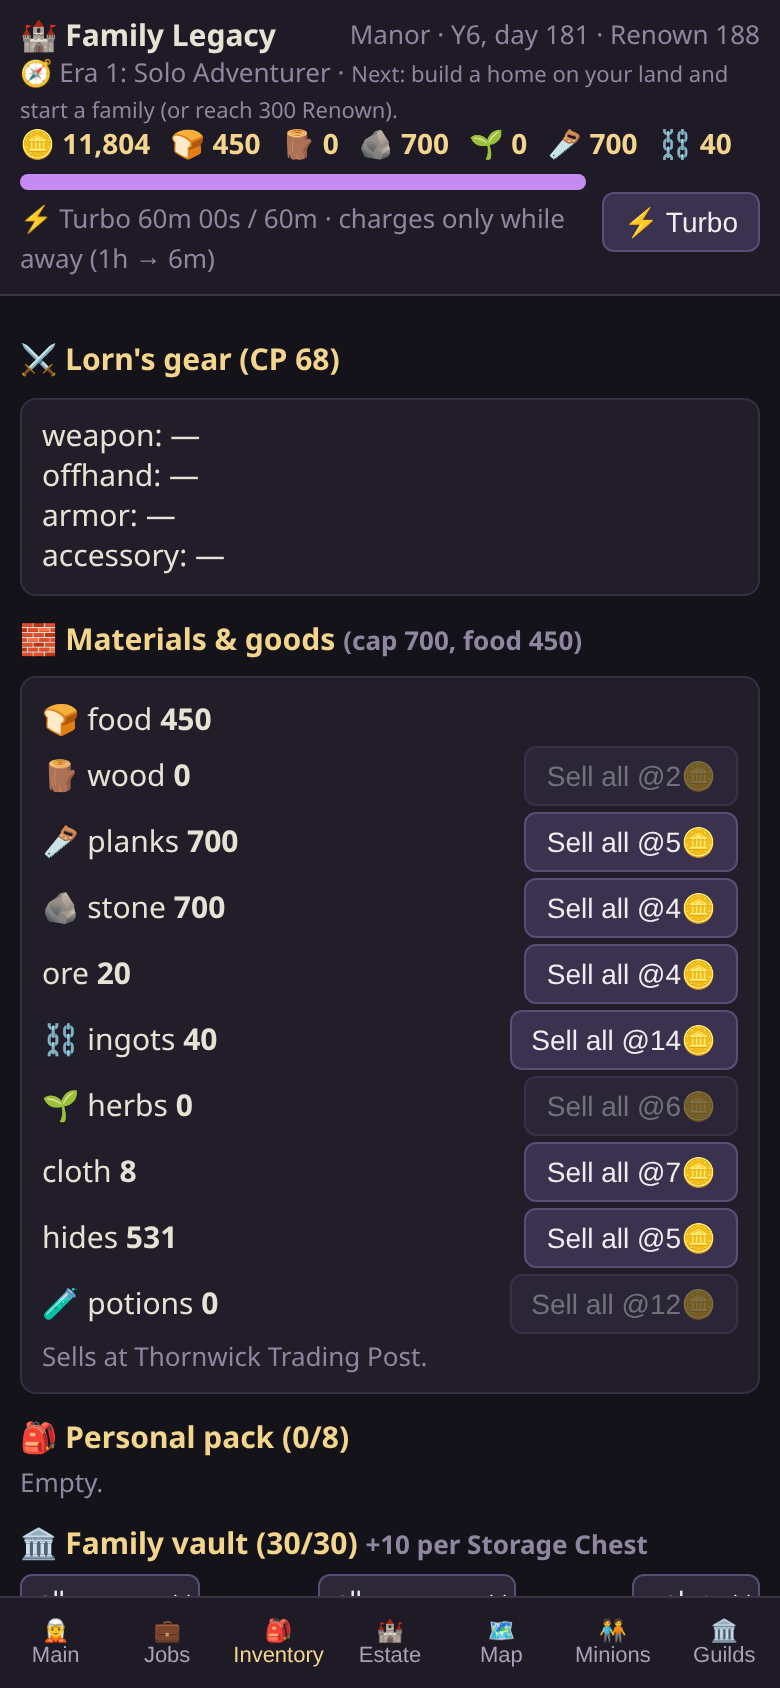
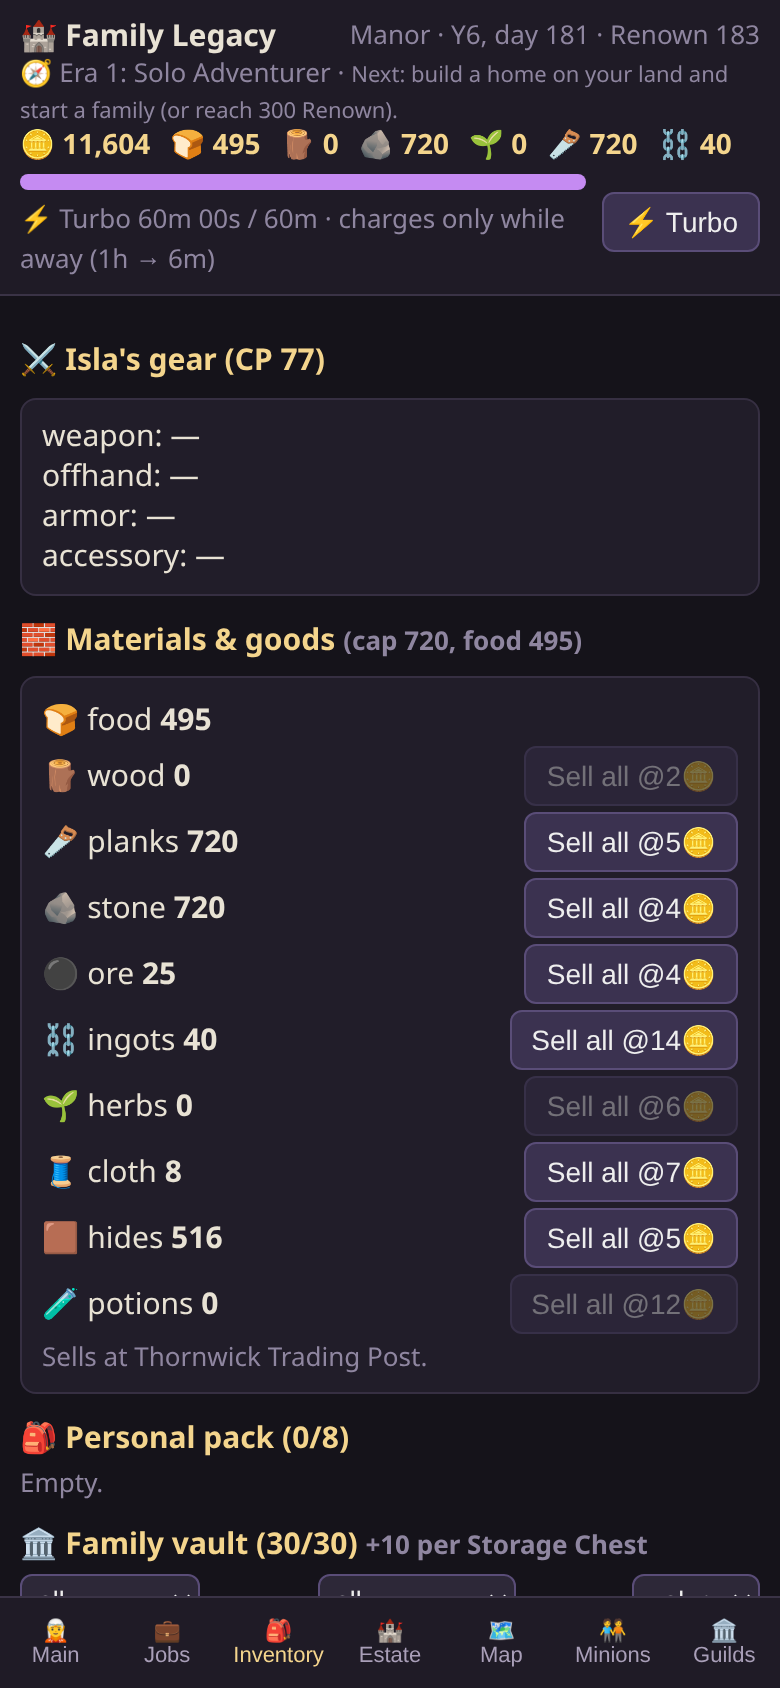
Update Family Legacy with ore, metals, and furniture tiers.
Replace the static game with the latest build, including ore and metals, building level bonuses, and furniture tiers, and keep the existing Pages workflow.

diff --git a/js/engine.js b/js/engine.js
@@ -86,15 +86,35 @@ export const idleEff=s=>T.idleEff+bl(s,'yard')*0.05;
 export const turboCapSec=s=>(T.turboCapMin+bl(s,'hourglass')*30)*60;
 export const offlineCapSec=s=>(T.offlineCapHours+bl(s,'hourglass')*2)*3600;
 const ES=()=>D.estate;
-export const pieceDef=id=>ES().pieces.find(p=>p.id===id)||D.furniture.find(p=>p.id===id);
+export const baseId=id=>String(id).split('@')[0];
+export const pieceTier=id=>+(String(id).split('@')[1]||0);
+export const pieceDef=id=>{ const b=baseId(id); return ES().pieces.find(p=>p.id===b)||D.furniture.find(p=>p.id===b); };
+export const tierName=id=>ES().pieceTiers[pieceTier(id)].name;
+export const structLevel=st=>structDef(st.type).level||1;
+export const pieceMult=(st,id)=>ES().pieceTiers[pieceTier(id)].mult*(1+ES().levelBonus*(structLevel(st)-1));
+const INTK=new Set(['beds']);
+function scaleBonus(b,m){ const o={}; for(const[k,v]of Object.entries(b)){
+  if(typeof v==='number') o[k]=INTK.has(k)?Math.floor(v*m+1e-9):v*m;
+  else if(k==='jobs'||k==='housing') o[k]=Object.fromEntries(Object.entries(v).map(([j,n])=>[j,Math.floor(n*m+1e-9)]));
+  else if(k==='process'||k==='processes') o.processes=[...(o.processes||[]),...[].concat(v).map(p=>({...p,rate:p.rate*m}))];
+  else o[k]=v; } return o; }
+export const scaledPiece=(st,id)=>{ const p=pieceDef(id); return p&&{...p,bonus:scaleBonus(p.bonus,pieceMult(st,id))}; };
+const STAGE_ORDER=()=>ES().stages.map(x=>x[1]);
+export function pieceLock(s,p){ const u=p.unlock; if(!u) return null;
+  if(u.stage&&STAGE_ORDER().indexOf(estateStage(s))<STAGE_ORDER().indexOf(u.stage)) return 'estate tier '+u.stage;
+  if(u.quest&&!s.doneQuests.includes(u.quest)) return 'quest: '+((D.quests.find(q=>q.id===u.quest)||{}).name||u.quest);
+  if(u.guild&&!living(s).some(m=>{const g=memberGuild(m,u.guild);return g&&(g.rank||0)>=(u.rank||0);})) return ((guildDef(u.guild)||{}).name||u.guild)+' rank '+((u.rank||0)+1);
+  return null; }
+export function pieceUpIssue(s,uid,pid){ const st=s.structures.find(x=>x.uid===uid); if(!st||!st.pieces.includes(pid)) return 'missing'; const t=pieceTier(pid); const nx=ES().pieceTiers[t+1]; if(!nx) return 'max'; if(!afford(s,nx.cost)) return 'cannot afford'; return null; }
+export function upgradePiece(s,uid,pid){ if(pieceUpIssue(s,uid,pid)) return false; const st=s.structures.find(x=>x.uid===uid); const t=pieceTier(pid)+1, nx=ES().pieceTiers[t]; pay(s,nx.cost); st.pieces[st.pieces.indexOf(pid)]=baseId(pid)+'@'+t; log(s,`🔧 ${pieceDef(pid).name} upgraded to ${nx.name}.`); return true; }
 export const structDef=id=>ES().structures.find(x=>x.id===id);
-const placed=s=>(s.structures||[]).flatMap(st=>st.pieces.map(pieceDef).filter(Boolean));
-export function activeSynergies(st){ return ES().synergies.filter(y=>y.pieces.every(p=>st.pieces.includes(p))); }
+const placed=s=>(s.structures||[]).flatMap(st=>st.pieces.map(id=>scaledPiece(st,id)).filter(Boolean));
+export function activeSynergies(st){ return ES().synergies.filter(y=>y.pieces.every(p=>st.pieces.map(baseId).includes(p))); }
 export const allSynergies=s=>(s.structures||[]).flatMap(st=>activeSynergies(st).map(y=>({...y,where:st.uid})));
 // every placed piece + every active synergy, as {bonus} objects (old furniture code reads f.bonus)
 const effects=s=>[...placed(s),...allSynergies(s)];
 export const eff=(s,k)=>effects(s).reduce((a,f)=>a+(typeof f.bonus[k]==='number'?f.bonus[k]:0),0);
-export const hasPiece=(s,id)=>(s.structures||[]).some(st=>st.pieces.includes(id));
+export const hasPiece=(s,id)=>(s.structures||[]).some(st=>st.pieces.map(baseId).includes(baseId(id)));
 export const bedrooms=s=>1+eff(s,'beds');
 export const hasLand=s=>(s.land||[]).length>0;
 export const established=s=>hasLand(s)&&(s.structures||[]).length>0;
@@ -111,15 +131,16 @@ export function buildStructure(s,type){ if(structIssue(s,type)) return null; con
 export function upgradeIssue(s,uid){ const st=s.structures.find(x=>x.uid===uid); if(!st) return 'missing'; const nx=ES().structures.find(x=>x.upgradeFrom===st.type); if(!nx) return 'max'; if(landUsed(s)-structDef(st.type).land+nx.land>landSlots(s)) return 'no free land slot'; if(!afford(s,nx.cost)) return 'cannot afford'; return null; }
 export function upgradeStructure(s,uid){ if(upgradeIssue(s,uid)) return false; const st=s.structures.find(x=>x.uid===uid); const nx=ES().structures.find(x=>x.upgradeFrom===st.type); pay(s,nx.cost); log(s,`🏗 ${structDef(st.type).name} upgraded to ${nx.name}.`); st.type=nx.id; return true; }
 export const freeSlots=(s,st)=>structDef(st.type).slots-st.pieces.length;
-export function placeIssue(s,uid,pid,fromStore){ const st=s.structures.find(x=>x.uid===uid), p=pieceDef(pid); if(!st||!p) return 'missing'; if(freeSlots(s,st)<=0) return 'building full'; if(st.pieces.includes(pid)) return 'already here'; if(!fromStore&&!afford(s,p.cost)) return 'cannot afford'; if(fromStore&&!s.pieceStore.includes(pid)) return 'not in storage'; return null; }
+export function placeIssue(s,uid,pid,fromStore){ const st=s.structures.find(x=>x.uid===uid), p=pieceDef(pid); if(!st||!p) return 'missing'; if(freeSlots(s,st)<=0) return 'building full'; if(st.pieces.map(baseId).includes(baseId(pid))) return 'already here'; if(!fromStore&&pieceLock(s,p)) return '🔒 '+pieceLock(s,p); if(!fromStore&&!afford(s,p.cost)) return 'cannot afford'; if(fromStore&&!s.pieceStore.includes(pid)) return 'not in storage'; return null; }
 export function placePiece(s,uid,pid,fromStore=false){ if(placeIssue(s,uid,pid,fromStore)) return false; const st=s.structures.find(x=>x.uid===uid), p=pieceDef(pid);
   if(fromStore) s.pieceStore.splice(s.pieceStore.indexOf(pid),1); else pay(s,p.cost); st.pieces.push(pid);
   const before=new Set(); log(s,`🪑 Placed ${p.name} in the ${structDef(st.type).name}.`); for(const y of activeSynergies(st)) if(y.pieces.includes(pid)) log(s,`✨ Synergy: ${y.name} (${y.desc}).`); return true; }
 export function removePiece(s,uid,pid){ const st=s.structures.find(x=>x.uid===uid); if(!st||!st.pieces.includes(pid)) return false; st.pieces.splice(st.pieces.indexOf(pid),1); s.pieceStore.push(pid); return true; }
-function processDay(s,mul=1){ for(const st of s.structures||[]){ const syn=activeSynergies(st); for(const p of st.pieces.map(pieceDef)){ const pr=p&&p.bonus.process; if(!pr) continue;
+function processDay(s,mul=1){ for(const st of s.structures||[]){ const syn=activeSynergies(st); for(const p of st.pieces.map(id=>scaledPiece(st,id))) for(const pr of (p&&p.bonus.processes)||[]){
   let n=pr.rate*mul*syn.reduce((a,y)=>a*((y.bonus.processMult||{})[pr.out]||1),1); for(const[k,v]of Object.entries(pr.in)) n=Math.min(n,(s.res[k]||0)/v); if(n<=0) continue;
   for(const[k,v]of Object.entries(pr.in)) s.res[k]-=v*n; s.res[pr.out]=(s.res[pr.out]||0)+n; } } }
-export const processRate=(s,st,pid)=>{ const pr=pieceDef(pid).bonus.process; return pr?pr.rate*activeSynergies(st).reduce((a,y)=>a*((y.bonus.processMult||{})[pr.out]||1),1):0; };
+export const processRates=(s,st,pid)=>((scaledPiece(st,pid).bonus.processes)||[]).map(pr=>({out:pr.out,rate:Math.round(pr.rate*activeSynergies(st).reduce((a,y)=>a*((y.bonus.processMult||{})[pr.out]||1),1)*100)/100}));
+export const processRate=(s,st,pid)=>{ const r=processRates(s,st,pid); return r.length?r[0].rate:0; };
 export function jobCap(s,job){ if(job==='idle'||job==='guard') return Infinity; let c=placed(s).reduce((a,p)=>a+((p.bonus.jobs||{})[job]||0),0);
   if(job==='farm') c+=bl(s,'farm')*2+bl(s,'garden'); if(job==='gather') c+=bl(s,'lumber')*2; if(job==='tutor') c+=bl(s,'library'); return c; }
 export function estateStage(s){ if(!hasLand(s)) return 'Landless'; const t=Object.values(s.buildings).reduce((a,b)=>a+b,0)+s.structures.reduce((a,st)=>a+structDef(st.type).slots/2+st.pieces.length,0); const STAGES=ES().stages; let n=STAGES[0][1];for(const[k,v]of STAGES)if(t>=k)n=v;return n;}
@@ -292,7 +313,7 @@ export function rumor(s,regionId){ if(s.res.coin<T.rumorCost) return null; const
 // ---- minions (followers, hired help, retainers)
 export const minionCap=s=>D.minions.baseCap+(s.structures||[]).length*D.minions.capPerHouse+(hasService(s,'storage')?2:0);
 export function housingCap(s,kind){ if(kind==='none') return Infinity; if(kind==='garden') return bl(s,'garden')>0?Infinity:0;
-  return (s.structures||[]).reduce((a,st)=>a+(((structDef(st.type).builtin||{}).housing||{})[kind]||0)+st.pieces.map(pieceDef).reduce((b,p)=>b+(((p&&p.bonus.housing)||{})[kind]||0),0),0); }
+  return (s.structures||[]).reduce((a,st)=>a+(((structDef(st.type).builtin||{}).housing||{})[kind]||0)+st.pieces.map(id=>scaledPiece(st,id)).reduce((b,p)=>b+(((p&&p.bonus.housing)||{})[kind]||0),0),0); }
 export const housingKind=mi=>(D.minions.types.find(t=>t.id===(mi.type||mi.id))||{}).housing||'bunk';
 export function isHoused(s,mi){ const k=housingKind(mi); const same=s.minions.filter(x=>housingKind(x)===k); return same.indexOf(mi)<housingCap(s,k); }
 export const housingUsed=(s,kind)=>Math.min(s.minions.filter(x=>housingKind(x)===kind).length,housingCap(s,kind));
@@ -320,6 +341,7 @@ function minionDay(s){
     const a=(mtype(mi.type).apt[mi.job]||1)*(fed?1:D.minions.hungryOutput)*minionGearMult(mi,mi.job);
     if(mi.job==='farm') s.res.food+=3*a*(1+bl(s,'farm')*.2);
     else if(mi.job==='gather'){ s.res.wood+=2*a; s.res.stone+=1*a; }
+    else if(mi.job==='mine'){ s.res.ore=(s.res.ore||0)+1*a; s.res.copperore=(s.res.copperore||0)+0.8*a; s.res.stone+=0.5*a; }
     else if(mi.job==='herbs') s.res.herbs=(s.res.herbs||0)+1.5*a;
     else if(mi.job==='craft'){ mi.prog=(mi.prog||0)+0.2*a; const rc=bestRecipe(s,null); if(rc&&mi.prog>=rc.days){ mi.prog=0; craftItem(s,null,rc,mi,a); } }
     else if(mi.job==='merchant'){ sellTick(s,a*(1+(mi.equip?0:0))); } }
@@ -417,7 +439,7 @@ export const qualities=()=>CR().qualities;
 export function itemDef(id){ if(typeof id!=='string') return null; if(id.startsWith('c|')){ const [,b,q]=id.split('|'); const base=D.items.find(i=>i.id===b), Q=CR().qualities.find(x=>x.id===q); if(!base||!Q) return null;
   return {...base,id,name:`${Q.name} ${base.name}`,rarity:Q.name,quality:q,crafted:true,cp:Math.round((base.cp||0)*Q.mult),value:Math.round(base.value*Q.mult*CR().craftedValueMult),affinity:base.affinity?Math.round(base.affinity*Q.mult):undefined}; }
   return D.items.find(i=>i.id===id)||null; }
-export const vaultCap=s=>CR().vaultBase+eff(s,'matCap')/400*CR().vaultPerStorage;
+export const vaultCap=s=>CR().vaultBase+Math.floor(eff(s,'matCap')/400*CR().vaultPerStorage+1e-9);
 export const vaultRoom=s=>s.vault.length<vaultCap(s);
 export const packCap=()=>CR().packCap;
 export function addToVault(s,id){ if(!vaultRoom(s)) return false; s.vault.push(id); return true; }

diff --git a/js/main.js b/js/main.js
@@ -80,19 +80,20 @@ function family(){ const m=E.active(s); let h=`<h3>Members (${E.living(s).length
   <button class="b" data-a="propose" data-v="${su.id}" ${su.affinity>=100&&!m.spouse&&s.res.coin>=200&&E.ageY(m)>=18?'':'disabled'}>💍 Propose (200🪙)</button></div></div>`; }
  const dead=s.members.filter(x=>!x.alive); if(dead.length) h+=`<h3>🕯 Ancestors</h3>`+dead.map(x=>`<div class="muted">${x.name} (${E.ageY(x)}y)</div>`).join('');
  return h; }
-const RI={coin:'🪙',wood:'🪵',stone:'🪨',food:'🍞',herbs:'🌱',planks:'🪚',ingots:'⛓',potions:'🧪'};
+const RI={coin:'🪙',wood:'🪵',stone:'🪨',food:'🍞',herbs:'🌱',planks:'🪚',ingots:'⛓',potions:'🧪',ore:'⚫',copperore:'🟤',copper:'🟠',hides:'🟫',cloth:'🧵'};
 const costStr=c=>Object.entries(c).map(([k,v])=>`${fmt(v)} ${(RI[k]||k)}`).join(' ');
 function landShop(where){ return D.estate.lands.filter(l=>!s.land.includes(l.id)&&(!where||l.towns.includes(where))).map(l=>`<div class="card row" style="padding:6px 8px;margin:4px 0"><span>${l.icon} ${l.name} <span class="muted">+${l.slots} land slots${l.requires&&!s.land.includes(l.requires)?' · needs '+D.estate.lands.find(x=>x.id===l.requires).name:''}${l.desc?' · '+l.desc:''}</span></span><button class="b" data-a="land" data-v="${l.id}" ${E.canBuyLand(s,l.id)?'':'disabled'}>${costStr(l.cost)}</button></div>`).join(''); }
 function pieceRow(p,btn){ return `<div class="row" style="margin:3px 0"><span>${p.icon} ${p.name} <span class="muted">${p.desc||Object.entries(p.bonus).map(([k,v])=>k+': '+v).join(', ')}</span></span>${btn}</div>`; }
 function estate(){ let h=`<div class="card"><div class="row"><b>🗺 Land</b><span>${E.landUsed(s)}/${E.landSlots(s)} land slots used</span></div><div class="muted">${s.land.map(id=>D.estate.lands.find(l=>l.id===id).name).join(', ')}</div></div>${landShop()}`;
- h+=`<div class="card"><b>📦 Capacity</b><div class="muted">🍞 ${fmt(s.res.food)}/${fmt(E.foodCap(s))} food · materials cap ${fmt(E.matCap(s))} each · 🪵→🪵 planks ${fmt(s.res.planks||0)} · ⛓ ingots ${fmt(s.res.ingots||0)} · 🧪 potions ${fmt(s.res.potions||0)}</div>
+ h+=`<div class="card"><b>📦 Capacity</b><div class="muted">🍞 ${fmt(s.res.food)}/${fmt(E.foodCap(s))} food · materials cap ${fmt(E.matCap(s))} each · 🪵→🪵 planks ${fmt(s.res.planks||0)} · ⚫ iron ore ${fmt(s.res.ore||0)} · ⛓ iron ingots ${fmt(s.res.ingots||0)} · 🟤 copper ore ${fmt(s.res.copperore||0)} · 🟠 copper ${fmt(s.res.copper||0)} · 🧪 potions ${fmt(s.res.potions||0)}</div>
  <div class="muted">Family eats ${E.living(s).length}🍞/day · followers eat ${E.minionFood(s)}🍞/day · beds ${E.living(s).length}/${E.bedrooms(s)} · follower bunks ${E.housingUsed(s,'bunk')}/${E.housingCap(s,'bunk')}</div></div>`;
  const syn=E.allSynergies(s); h+=`<h3>✨ Active synergies (${syn.length})</h3>`+(syn.length?syn.map(y=>`<div>${y.icon} <b>${y.name}</b> <span class="muted">${y.desc} · in ${E.structDef(s.structures.find(x=>x.uid===y.where).type).name}</span></div>`).join(''):'<div class="muted">Place related pieces in the same building: '+D.estate.synergies.map(y=>y.pieces.map(p=>E.pieceDef(p).name).join(' + ')).join(' · ')+'</div>');
  h+=`<h3>🛖 Buildings & stations</h3>`;
  s.structures.forEach((st,k)=>{ const d=E.structDef(st.type), nx=D.estate.structures.find(x=>x.upgradeFrom===st.type), ui=E.upgradeIssue(s,st.uid); const syn=E.activeSynergies(st);
-  h+=`<div class="card"><div class="row"><b>${d.icon} ${d.name} #${k+1}</b><span class="muted">${st.pieces.length}/${d.slots} slots · ${d.land} land</span></div>${d.builtin?`<div class="muted">Built-in: houses ${d.builtin.housing.bunk} followers</div>`:''}${syn.length?`<div>${syn.map(y=>`<span class="tb" style="border-color:#d9b44a">${y.icon} ${y.name}</span>`).join('')}</div>`:''}
-  ${st.pieces.map(pid=>{const p=E.pieceDef(pid);const rate=E.processRate(s,st,pid);return pieceRow(p,`<button class="b" data-a="unpiece" data-v="${st.uid}" data-w="${pid}">${rate?rate+'/day · ':''}Remove</button>`)}).join('')}
-  ${E.freeSlots(s,st)>0?`<div class="row" style="margin-top:4px"><select data-a="pickpiece" data-v="${st.uid}"><option value="">+ Place a piece…</option>${s.pieceStore.filter((x,i,a)=>a.indexOf(x)===i).map(pid=>`<option value="store:${pid}">📦 ${E.pieceDef(pid).name} (from storage)</option>`).join('')}${[...D.estate.pieces,...D.furniture].map(p=>`<option value="${p.id}" ${E.placeIssue(s,st.uid,p.id)?'disabled':''}>${p.icon} ${p.name} – ${costStr(p.cost)}${E.placeIssue(s,st.uid,p.id)==='already here'?' (here)':''}</option>`).join('')}</select></div>`:''}
+  h+=`<div class="card"><div class="row"><b>${d.icon} ${d.name} #${k+1}</b><span class="muted">Lv ${d.level||1} (+${((d.level||1)-1)*5}% to furniture) · ${st.pieces.length}/${d.slots} slots · ${d.land} land</span></div>${d.builtin?`<div class="muted">Built-in: houses ${d.builtin.housing.bunk} followers</div>`:''}${syn.length?`<div>${syn.map(y=>`<span class="tb" style="border-color:#d9b44a">${y.icon} ${y.name}</span>`).join('')}</div>`:''}
+  ${st.pieces.map(pid=>{const p=E.pieceDef(pid);const rates=E.processRates(s,st,pid);const t=E.pieceTier(pid),nt=D.estate.pieceTiers[t+1],ui=E.pieceUpIssue(s,st.uid,pid);
+   return `<div class="row" style="margin:3px 0"><span>${p.icon} ${p.name} <span class="tb">${E.tierName(pid)}</span> <span class="muted">${p.desc} · ×${E.pieceMult(st,pid).toFixed(2)} effect${rates.length?' · '+rates.map(r=>r.rate+' '+r.out+'/day').join(', '):''}</span></span><span>${nt?`<button class="b" data-a="uppiece" data-v="${st.uid}" data-w="${pid}" ${ui?'disabled':''}>→ ${nt.name} ${costStr(nt.cost)}</button>`:''}<button class="b" data-a="unpiece" data-v="${st.uid}" data-w="${pid}">Remove</button></span></div>`}).join('')}
+  ${E.freeSlots(s,st)>0?`<div class="row" style="margin-top:4px"><select data-a="pickpiece" data-v="${st.uid}"><option value="">+ Place a piece…</option>${s.pieceStore.filter((x,i,a)=>a.indexOf(x)===i).map(pid=>`<option value="store:${pid}">📦 ${E.pieceDef(pid).name} [${E.tierName(pid)}] (from storage)</option>`).join('')}${[...D.estate.pieces,...D.furniture].map(p=>`<option value="${p.id}" ${E.placeIssue(s,st.uid,p.id)?'disabled':''}>${p.icon} ${p.name} – ${costStr(p.cost)}${E.placeIssue(s,st.uid,p.id)==='already here'?' (here)':E.pieceLock(s,p)?' 🔒 '+E.pieceLock(s,p):''}</option>`).join('')}</select></div>`:''}
   ${nx?`<div class="row" style="margin-top:4px"><span class="muted">Upgrade → ${nx.name} (${nx.slots} slots, ${nx.land} land)</span><button class="b" data-a="upstruct" data-v="${st.uid}" ${ui?'disabled':''}>${ui&&ui!=='cannot afford'?'🔒 '+ui:costStr(nx.cost)}</button></div>`:''}</div>`; });
  h+=`<div class="muted">Build new:</div>`+D.estate.structures.filter(d=>!d.upgradeFrom).map(d=>{const iss=E.structIssue(s,d.id);return `<div class="card row" style="padding:6px 8px;margin:4px 0"><span>${d.icon} ${d.name} <span class="muted">${d.land} land · ${d.desc}</span></span><button class="b" data-a="struct" data-v="${d.id}" ${iss?'disabled':''}>${iss&&iss!=='cannot afford'?'🔒 '+iss:costStr(d.cost)}</button></div>`}).join('');
  if(s.pieceStore.length) h+=`<div class="muted">📦 In storage: ${s.pieceStore.map(p=>E.pieceDef(p).name).join(', ')}</div>`;
@@ -212,7 +213,7 @@ document.addEventListener('click',e=>{ const t=e.target.closest('[data-tab]'); i
  const b=e.target.closest('button[data-a],a[data-a]'); if(!b) return; const a=b.dataset.a, v=b.dataset.v, m=E.active(s);
  ({turbo:()=>E.toggleTurbo(s),train:()=>E.setAction(s,{type:'train',target:v}),sheet:()=>{sheetOpen=!sheetOpen},job:()=>E.setAction(s,{type:'job',target:v}),activity:()=>E.setAction(s,{type:'activity',target:v}),rest:()=>E.setAction(s,{type:'rest'}),
   quest:()=>{E.setAction(s,{type:'quest',target:v});},court:()=>E.setAction(s,{type:'court',target:v}),gift:()=>E.giveGift(s,v,b.dataset.w),propose:()=>E.propose(s,v),
-  evolve:()=>E.evolve(s,m,v),build:()=>E.build(s,v),struct:()=>E.buildStructure(s,v),upstruct:()=>E.upgradeStructure(s,v),unpiece:()=>E.removePiece(s,v,b.dataset.w),equip:()=>E.equip(s,m,v),equipbag:()=>E.equip(s,m,v,'bag'),unequip:()=>E.unequip(s,m,v),tobag:()=>E.moveItem(s,m,v,true),tovault:()=>E.moveItem(s,m,v,false),buy:()=>E.buyItem(s,v,b.dataset.w),sellres:()=>E.sellRes(s,v,b.dataset.w,10),rumor:()=>E.rumor(s,v),sellallres:()=>E.sellAllRes(s,v,b.dataset.w),bulksell:()=>E.sellMany(s,curList()),bulklist:()=>curList().forEach(id=>E.listForSale(s,id)),list:()=>E.listForSale(s,v),unlist:()=>E.unlist(s,v),craft:()=>E.setAction(s,{type:'craft',target:v}),mequip:()=>E.equipMinion(s,v,b.dataset.w),munequip:()=>E.unequipMinion(s,v,b.dataset.w),land:()=>E.buyLand(s,v),room:()=>E.addRoom(s,v),unroom:()=>E.removeRoom(s,+v),advjoin:()=>E.joinAdventurers(s,m),advrank:()=>E.advRankUp(s,m),advbuy:()=>E.buyAdvItem(s,m,v),join:()=>E.joinGuild(s,m,v),rankup:()=>E.rankUp(s,m,v||undefined),gbuy:()=>E.buyGuildItem(s,m,v),hire:()=>E.hire(s,v,b.dataset.w),dismiss:()=>E.dismiss(s,v),gather:()=>E.setAction(s,{type:'gather',target:v}),sell:()=>E.sell(s,v),switch:()=>E.switchTo(s,+v),
+  evolve:()=>E.evolve(s,m,v),build:()=>E.build(s,v),struct:()=>E.buildStructure(s,v),upstruct:()=>E.upgradeStructure(s,v),unpiece:()=>E.removePiece(s,v,b.dataset.w),uppiece:()=>E.upgradePiece(s,v,b.dataset.w),equip:()=>E.equip(s,m,v),equipbag:()=>E.equip(s,m,v,'bag'),unequip:()=>E.unequip(s,m,v),tobag:()=>E.moveItem(s,m,v,true),tovault:()=>E.moveItem(s,m,v,false),buy:()=>E.buyItem(s,v,b.dataset.w),sellres:()=>E.sellRes(s,v,b.dataset.w,10),rumor:()=>E.rumor(s,v),sellallres:()=>E.sellAllRes(s,v,b.dataset.w),bulksell:()=>E.sellMany(s,curList()),bulklist:()=>curList().forEach(id=>E.listForSale(s,id)),list:()=>E.listForSale(s,v),unlist:()=>E.unlist(s,v),craft:()=>E.setAction(s,{type:'craft',target:v}),mequip:()=>E.equipMinion(s,v,b.dataset.w),munequip:()=>E.unequipMinion(s,v,b.dataset.w),land:()=>E.buyLand(s,v),room:()=>E.addRoom(s,v),unroom:()=>E.removeRoom(s,+v),advjoin:()=>E.joinAdventurers(s,m),advrank:()=>E.advRankUp(s,m),advbuy:()=>E.buyAdvItem(s,m,v),join:()=>E.joinGuild(s,m,v),rankup:()=>E.rankUp(s,m,v||undefined),gbuy:()=>E.buyGuildItem(s,m,v),hire:()=>E.hire(s,v,b.dataset.w),dismiss:()=>E.dismiss(s,v),gather:()=>E.setAction(s,{type:'gather',target:v}),sell:()=>E.sell(s,v),switch:()=>E.switchTo(s,+v),
   class:()=>E.chooseClass(s,s.pendingClass[0],v),close:()=>{report=null},
   export:()=>{prompt('Copy your save:',btoa(unescape(encodeURIComponent(E.serialize(s)))));},
   import:()=>{const t=prompt('Paste save:'); if(t){try{s=E.deserialize(decodeURIComponent(escape(atob(t))));}catch(err){alert('Invalid save');}}},

diff --git a/README.md b/README.md
@@ -10,3 +10,9 @@ Round 7: rooms replaced by buildings (Shack/Cabin/House/Workshop Hall/Bunkhouse)
 
 ## Eras
 The header shows your era (Solo Adventurer → Established Family → Ruling Power) and a hint for the next one. Eras only add systems; nothing earlier is ever locked. See ROADMAP.md.
+
+## Metals & furniture tiers
+- **Ore:** iron ore (Abandoned Mine) and copper ore (Creek, new Copper Vein node, and followers on the new **Mining** job using Ore Cart spots). The Forge smelts iron ore → iron ingots and copper ore → copper. Ingots go into gear recipes and furniture; copper goes into tools and charms, and into the Sturdy furniture upgrade.
+- **Building level:** Shack/Bunkhouse Lv1, Cabin Lv2, House/Hall Lv3: +5% per level above 1 to every piece inside.
+- **Furniture tiers:** Crude ×1 → Sturdy ×1.15 (planks+copper) → Fine ×1.3 → Masterwork ×1.5 (planks+ingots+coin). Pieces keep their tier in storage.
+- **Unlockable furniture:** Feather Bed (estate tier Farmstead), Cold Cellar (quest), Steel Anvil (Crafters rank 2), Alchemist's Bench (Magic rank 2), Ore Cart.
